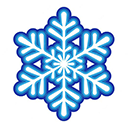
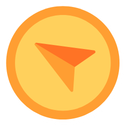
first commit

diff --git a/assets/content.js b/assets/content.js
@@ -677,11 +677,31 @@ class Instagram {
                 f = t.text;
                 this.log({ type: "Using pre-resolved message (skipped IG lookup)", data: {} });
               } else {
-                var y = await this.domConnector.send("getUserFromContacts", {
-                    username: e.username
-                  });
-                if (y) {
-                  f = t.text.replaceAll("{{username}}", e.username).replaceAll("{{name}}", y?.name ?? e.username).replaceAll("{{firstName}}", y.name ? y.name.includes(" ") ? normalizeUnicodeText(parseFullName(y.name)?.first || y.secondaryName || "") : normalizeUnicodeText(y.name || "") : normalizeUnicodeText(y.secondaryName || ""));
+                const w = await this.domConnector.send("getUserFromContacts", {
+                  username: e.username,
+                });
+                if (w) {
+                  f = t.text
+                    .replaceAll("{{username}}", e.username)
+                    .replaceAll("{{name}}", w?.name ?? e.username)
+                    .replace(/[ \t]*\{\{firstName\}\}[ \t]*/g, (e) => {
+                      var t = (t = w)
+                        ? t.name
+                          ? t.name.includes(" ")
+                            ? normalizeUnicodeText(
+                                parseFullName(t.name)?.first ||
+                                  t.secondaryName ||
+                                  "",
+                              )
+                            : normalizeUnicodeText(t.name || "")
+                          : normalizeUnicodeText(t.secondaryName || "")
+                        : "";
+                      return t
+                        ? e.replace("{{firstName}}", t)
+                        : /^[ \t]/.test(e) && /[ \t]$/.test(e)
+                          ? " "
+                          : "";
+                    });
                 } else {
                   f = t.text;
                   this.log({ type: "getUserFromContacts returned undefined, using raw message", data: {} });
@@ -787,11 +807,31 @@ class Instagram {
                 g = t.text;
                 this.log({ type: "Using pre-resolved message (skipped IG lookup)", data: {} });
               } else {
-                var u = await this.domConnector.send("getUserFromContacts", {
-                    username: e.username
-                  });
-                if (u) {
-                  g = t.text.replaceAll("{{username}}", e.username).replaceAll("{{name}}", u?.name ?? e.username).replaceAll("{{firstName}}", u.name ? u.name.includes(" ") ? normalizeUnicodeText(parseFullName(u.name)?.first || u.secondaryName || "") : normalizeUnicodeText(u.name || "") : normalizeUnicodeText(u.secondaryName || ""));
+                const w = await this.domConnector.send("getUserFromContacts", {
+                  username: e.username,
+                });
+                if (w) {
+                  g = t.text
+                    .replaceAll("{{username}}", e.username)
+                    .replaceAll("{{name}}", w?.name ?? e.username)
+                    .replace(/[ \t]*\{\{firstName\}\}[ \t]*/g, (e) => {
+                      var t = (t = w)
+                        ? t.name
+                          ? t.name.includes(" ")
+                            ? normalizeUnicodeText(
+                                parseFullName(t.name)?.first ||
+                                  t.secondaryName ||
+                                  "",
+                              )
+                            : normalizeUnicodeText(t.name || "")
+                          : normalizeUnicodeText(t.secondaryName || "")
+                        : "";
+                      return t
+                        ? e.replace("{{firstName}}", t)
+                        : /^[ \t]/.test(e) && /[ \t]$/.test(e)
+                          ? " "
+                          : "";
+                    });
                 } else {
                   g = t.text;
                   this.log({ type: "getUserFromContacts returned undefined, using raw message", data: {} });
@@ -1344,9 +1384,19 @@ class Instagram {
       a = a[e];
     for (let t = 0; t < s.length; ++t)
       for (let e = 0; e < 5; e++) {
-        await this.domConnector.send("enterSymbol", {
-          symbol: s.charAt(t)
-        }), await this.sleep(Helpers.rand(50, 150));
+        try {
+          await this.domConnector.send("enterSymbol", {
+            symbol: s.charAt(t)
+          });
+        } catch (err) {
+          const errStr = typeof err === 'string' ? err : (err?.error || err?.message || '');
+          if (errStr.includes("Stuck")) {
+            this.log({ type: "enterSymbol stuck, retrying", data: { symbol: s.charAt(t) } });
+          } else {
+            throw err;
+          }
+        }
+        await this.sleep(Helpers.rand(50, 150));
         const r = await this.domConnector.send("getMessageInput", {});
         if (r === s.substring(0, t + 1)) break;
         if (4 === e) throw new Error("Failed to input")
@@ -1474,9 +1524,31 @@ class Instagram {
         unreachableType: n[r.contact_reachability_status_type]
       });
       let e = s.text;
-      e.includes("{{") && (i = await this.domConnector.send("getUserFromContacts", {
-        username: t.username
-      }), e = s.text.replaceAll("{{username}}", t.username).replaceAll("{{name}}", i?.name ?? t.username).replaceAll("{{firstName}}", (l = i).name ? l.name.includes(" ") ? normalizeUnicodeText(parseFullName(l.name)?.first || l.secondaryName || "") : normalizeUnicodeText(l.name || "") : normalizeUnicodeText(l.secondaryName || ""))), await this.sleep(5e3), await this._sendMessage({
+      if (e.includes("{{")) {
+        const w = await this.domConnector.send("getUserFromContacts", {
+          username: t.username,
+        });
+        e = s.text
+          .replaceAll("{{username}}", t.username)
+          .replaceAll("{{name}}", w?.name ?? t.username)
+          .replace(/[ \t]*\{\{firstName\}\}[ \t]*/g, (e) => {
+            var t = (t = w)
+              ? t.name
+                ? t.name.includes(" ")
+                  ? normalizeUnicodeText(
+                      parseFullName(t.name)?.first || t.secondaryName || "",
+                    )
+                  : normalizeUnicodeText(t.name || "")
+                : normalizeUnicodeText(t.secondaryName || "")
+              : "";
+            return t
+              ? e.replace("{{firstName}}", t)
+              : /^[ \t]/.test(e) && /[ \t]$/.test(e)
+                ? " "
+                : "";
+          });
+      }
+      await this.sleep(5e3), await this._sendMessage({
         text: e,
         username: t.username
       });

diff --git a/assets/webapp-content.js b/assets/webapp-content.js
@@ -1,0 +1,49 @@
+/**
+ * Web App Content Script (Auto-Login Sync)
+ * Injected into localhost:5173 and *.vercel.app to detect Supabase session
+ * and securely pass it to the extension background.
+ */
+
+function scanForSupabaseSession() {
+  try {
+    for (let i = 0; i < localStorage.length; i++) {
+      const key = localStorage.key(i);
+      // Look for the Supabase auth token key (e.g., sb-pkzkoixryggxktaybwkp-auth-token)
+      if (key && key.startsWith("sb-") && key.endsWith("-auth-token")) {
+        const value = localStorage.getItem(key);
+        if (value) {
+          const session = JSON.parse(value);
+          if (session && session.access_token && session.refresh_token) {
+            console.log("[DmDroid] Auto-login: Found valid Supabase session. Syncing to background...");
+            // Send to extension background
+            chrome.runtime.sendMessage({
+              type: "HUB_SESSION_SYNCED",
+              payload: {
+                accessToken: session.access_token,
+                refreshToken: session.refresh_token
+              }
+            }).then(() => {
+              console.log("[DmDroid] Auto-login sync successful.");
+            }).catch((err) => {
+              console.log("[DmDroid] Auto-login sync error (background might not be listening):", err);
+            });
+            return true; // Successfully found and sent
+          } else {
+            console.log("[DmDroid] Auto-login: Found token, but it did not have access/refresh tokens.", session);
+          }
+        }
+      }
+    }
+  } catch (err) {
+    console.error("[DmDroid] Auto-Login Sync Error:", err);
+  }
+  return false;
+}
+
+// Initial scan
+scanForSupabaseSession();
+
+// Periodically check in case they log in later while keeping the tab open
+setInterval(() => {
+  scanForSupabaseSession();
+}, 2000);

diff --git a/assets/ReactDev.js b/assets/ReactDev.js
@@ -343,6 +343,7 @@
       return e.displayName || `${r}(${this.getDisplayName(t,s)})`
     }
     getDisplayNameForFiber(e) {
+      if (!e) return null;
       var {
         elementType: t,
         type: r,
@@ -1004,17 +1005,9 @@
         let e = [];
         if ((e = (e = !(e = a ? a.findMany("IGDRecipientUserListItem") ?? [] : e).length && i ? i.findMany("IGDRecipientUserListItem") ?? [] : e).length ? e : this.root.findMany("IGDRecipientUserListItem") ?? []).length) return e.map(e => {
           var t = (e.element.memoizedProps?.recipientFragmentRef)?.__id?.split(":")?.[1];
-          let r = null,
-            s = null;
-          const n = e => e ? e.stateNode instanceof HTMLElement ? e.stateNode : n(e.child) : null;
-          e = n(e.element);
-          if (e) {
-            e = e.querySelectorAll("span");
-            const o = [];
-            e.forEach(e => {
-              0 === e.children.length && e.textContent.trim() && o.push(e.textContent.trim())
-            }), s = o[0] || null, r = o[1] || null
-          }
+          let { displayName: s, username: r } = this._getRecipientListItemText({
+            item: e,
+          });
           return {
             type: "user",
             candidate: {
@@ -1026,6 +1019,36 @@
         })
       } catch (e) {}
       return []
+    }
+    _getRecipientListItemText({ item: e }) {
+      const t = (e) =>
+          String(e || "")
+            .replace(/\s+/g, " ")
+            .trim(),
+        r = (e) =>
+          e
+            ? e.stateNode instanceof HTMLElement
+              ? e.stateNode
+              : r(e.child)
+            : null;
+      ((e = r(e.element)), (e = e?.closest?.('[role="option"]') || e));
+      if (!e) return { displayName: null, username: null };
+      var s = String(e.innerText || "")
+        .split(/\n+/)
+        .map(t)
+        .filter(Boolean)
+        .filter((e) => "Verified" !== e);
+      if (2 <= s.length) return { displayName: s[0], username: s[1] };
+      const n = [];
+      return (
+        e.querySelectorAll("span").forEach((e) => {
+          e = t(e.textContent)
+            .replace(/\bVerified\b/g, "")
+            .trim();
+          e && !n.includes(e) && n.push(e);
+        }),
+        { displayName: n[0] || null, username: n[1] || n[0] || null }
+      );
     }
     async _alternativeSearchResultsMapping({
       username: t

diff --git a/assets/dom.js b/assets/dom.js
@@ -375,6 +375,10 @@ class ADBlockDOM {
           candidate: e
         }) => String(e.igid) === String(n.resultIgid)))
       }
+      if (!e) {
+        const singleMatch = r.filter(x => "user" === x.type);
+        if (singleMatch.length === 1) e = singleMatch[0];
+      }
       return e
     }
   }
@@ -498,19 +502,38 @@ class ADBlockDOM {
   _enterSymbol({
     symbol: a
   }) {
-    return new Promise(async (t, e) => {
-      const s = setTimeout(() => {
-          e(new Error("Stuck"))
-        }, 5e3),
-        r = document.querySelector('div[contenteditable="true"]'),
-        n = await this._importNamespace("Lexical");
-      r.__lexicalEditor.focus(() => {
-        r.__lexicalEditor.update(() => {
-          var e = 13 === a.charCodeAt(0) ? n.$createLineBreakNode(a) : n.$createTextNode(a);
-          n.$insertNodes([e]), clearTimeout(s), t()
+    const MAX_RETRIES = 3;
+    const attemptInsert = (retryCount) => {
+      return new Promise(async (t, e) => {
+        const s = setTimeout(() => {
+            if (retryCount < MAX_RETRIES) {
+              clearTimeout(s);
+              attemptInsert(retryCount + 1).then(t, e);
+            } else {
+              e(new Error("Stuck"))
+            }
+          }, 15e3),
+          r = document.querySelector('div[contenteditable="true"]'),
+          n = await this._importNamespace("Lexical");
+        if (!r || !r.__lexicalEditor) {
+          clearTimeout(s);
+          if (retryCount < MAX_RETRIES) {
+            await new Promise(res => setTimeout(res, 2e3));
+            attemptInsert(retryCount + 1).then(t, e);
+          } else {
+            e(new Error("Stuck"))
+          }
+          return;
+        }
+        r.__lexicalEditor.focus(() => {
+          r.__lexicalEditor.update(() => {
+            var e = 13 === a.charCodeAt(0) ? n.$createLineBreakNode(a) : n.$createTextNode(a);
+            n.$insertNodes([e]), clearTimeout(s), t()
+          })
         })
       })
-    })
+    };
+    return attemptInsert(0);
   }
   async _sendMessage() {
     var e = new CustomEvent("keydown", {

diff --git a/background.js b/background.js
@@ -102,9 +102,24 @@ async function handleLogin(email, password) {
   }
 }
 
+function getUserIdFromToken(token) {
+  try {
+    const base64Url = token.split('.')[1];
+    const base64 = base64Url.replace(/-/g, '+').replace(/_/g, '/');
+    const jsonPayload = decodeURIComponent(atob(base64).split('').map(function(c) {
+        return '%' + ('00' + c.charCodeAt(0).toString(16)).slice(-2);
+    }).join(''));
+    return JSON.parse(jsonPayload).sub;
+  } catch (e) {
+    return null;
+  }
+}
+
 async function fetchBrowsers() {
   try {
-    const browsers = await supabaseReq(`browser_instances?select=id,label,instance_key&order=created_at.desc`);
+    const userId = getUserIdFromToken(state.accessToken);
+    const filter = userId ? `user_id=eq.${userId}&` : '';
+    const browsers = await supabaseReq(`browser_instances?${filter}select=id,label,instance_key&order=created_at.desc`);
     chrome.runtime.sendMessage({ type: "FETCH_BROWSERS_SUCCESS", browsers }).catch(()=>null);
   } catch (err) {
     chrome.runtime.sendMessage({ type: "DEBUG_LOG", msg: `Fetch browsers error: ${err.message}` }).catch(()=>null);
@@ -614,6 +629,19 @@ chrome.runtime.onMessage.addListener((message, sender, sendResponse) => {
   }
   if (message.type === "HUB_RESUME_ENGINE") {
     chrome.runtime.sendMessage({ type: "DEBUG_LOG", msg: "[Engine] Resumed by user. Polling will restart on next cycle." }).catch(()=>null);
+    sendResponse({ ok: true });
+    return;
+  }
+  if (message.type === "HUB_SESSION_SYNCED") {
+    // Check if we already have the same token to avoid unnecessary restarts
+    if (state.accessToken !== message.payload.accessToken) {
+      state.accessToken = message.payload.accessToken;
+      state.refreshToken = message.payload.refreshToken;
+      chrome.storage.local.set({ accessToken: state.accessToken, refreshToken: state.refreshToken }).then(() => {
+        chrome.runtime.sendMessage({ type: "HUB_LOGIN_SUCCESS" }).catch(()=>null);
+        chrome.runtime.sendMessage({ type: "DEBUG_LOG", msg: "Auto-Login Sync Successful!" }).catch(()=>null);
+      });
+    }
     sendResponse({ ok: true });
     return;
   }